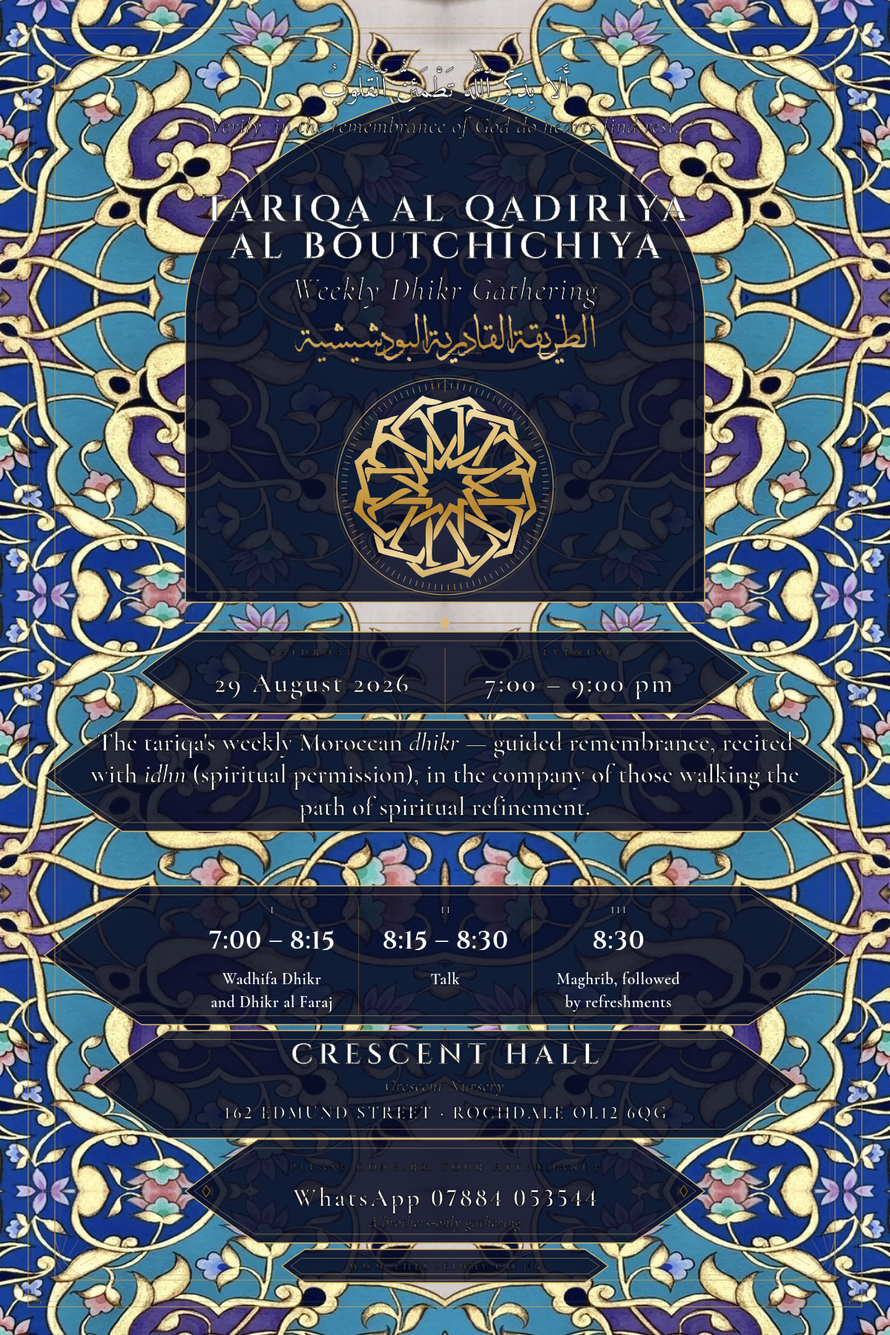
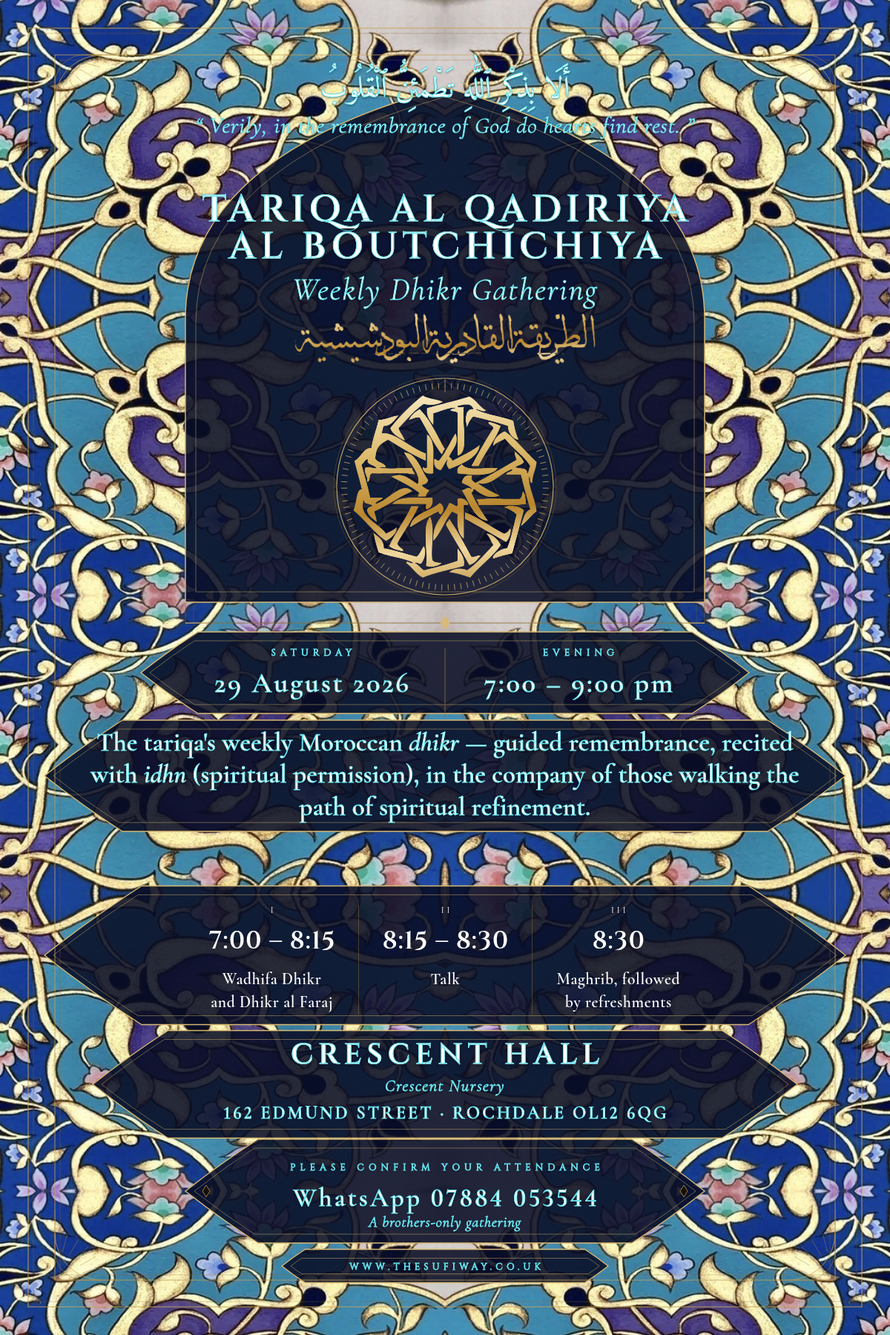
Aqua-blue text outline instead of black — too hard to read
Black-on-navy had too little separation against the cartouche panels.
Switches outline_stroke to a thin aqua-blue (0.9px #5FE1EC), pulled from
the artwork's own teal, which reads clearly against the navy panels and
ties the lettering to the illumination's own palette.

Claude-Session: https://claude.ai/code/session_01W3RXmfEcLks2fUKiCDKANu

diff --git a/design/weekly-gathering/final/final.py b/design/weekly-gathering/final/final.py
@@ -504,11 +504,11 @@ ILLUMINATED.update(
     # no mark_backing needed — the hero arch cartouche panel already gives the
     # star/wordmark a solid navy ground to sit on.
     gold_grad="linear-gradient(178deg,#FFFFFF 0%,#FFFFFF 100%)",
-    # opaque cartouche panels now carry the contrast, so text just needs a
-    # crisp hairline + a light lift, not the heavy outline needed when it
-    # sat directly on the busy photo — that combination was reading as
-    # solid black on the bigger, longer lines (body copy) instead of white.
-    outline_stroke="0.6px #000000",
+    # a thin aqua-blue outline (pulled from the artwork's own teal) round
+    # white letterforms — reads as a deliberate inked edge against the navy
+    # cartouche panels, rather than the black outline getting lost against
+    # them (black-on-navy has much less separation than blue-on-navy does).
+    outline_stroke="0.9px #5FE1EC",
     ayah="#FFFFFF", gloss="#FFFFFF", t2="#FFFFFF", lab="#FFFFFF", val="#FFFFFF",
     body="#FFFFFF", pt="#FFFFFF", pd="#FFFFFF", rn="#FFFFFF", vsub="#FFFFFF",
     addr="#FFFFFF", wa="#FFFFFF", note="#FFFFFF", url="#FFFFFF",

diff --git a/design/weekly-gathering/illuminated/README.md b/design/weekly-gathering/illuminated/README.md
@@ -80,9 +80,12 @@ actually in `final.py` now:
   `{shape, ...}` dicts) read by `cartouche_panels_svg()` in `frame_svg()`,
   default empty so every other colourway is untouched. With the panels
   doing the contrast work, `outline_stroke` dropped back down to a thin
-  `0.6px` (a crisp edge, not a heavy stroke) and the old `mark_backing`
-  vignette was removed — the star and wordmark now just sit on the arch
-  panel like everything else.
+  hairline and the old `mark_backing` vignette was removed — the star and
+  wordmark now just sit on the arch panel like everything else.
+- That hairline is aqua-blue (`0.9px #5FE1EC`), not black — black-on-navy
+  had much less separation than a colour pulled from the artwork's own
+  teal does, and it reads as a deliberate inked edge rather than a legibility
+  patch.
 - The old hairline "confirm attendance" box (a plain rounded rectangle)
   is suppressed on any colourway that supplies `cartouche_zones`, so it
   doesn't draw on top of the WhatsApp cartouche.
